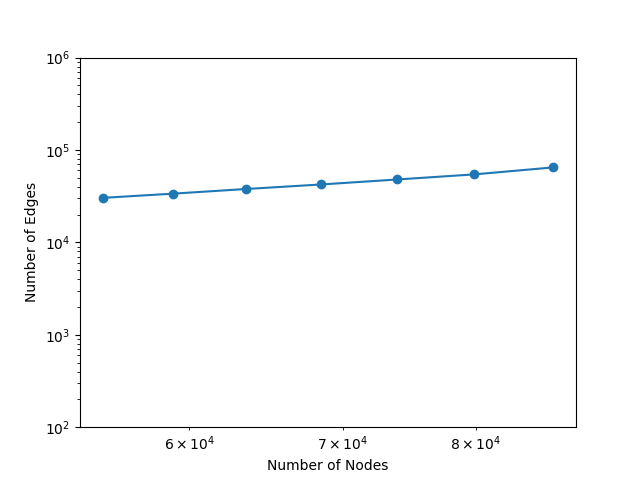
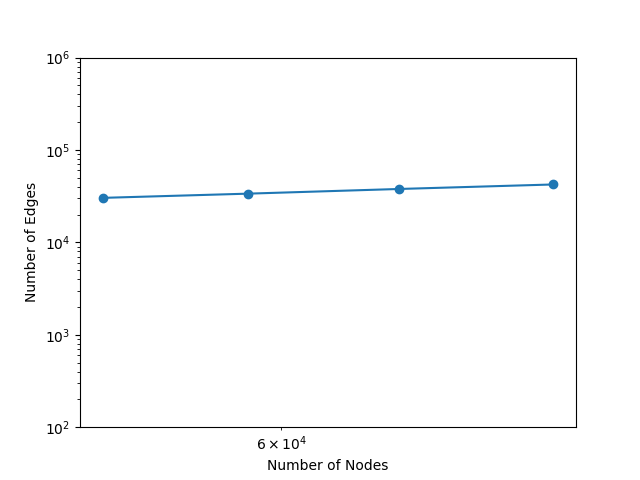
Trim some unused info

diff --git a/citation_dynamic_graph_analysis.py b/citation_dynamic_graph_analysis.py
@@ -1,7 +1,9 @@
 import sys
 sys.path.append('/home/home4/ychen/Code/python-lib') # add the path of networkx in Duke-CS cluster
-from matplotlib import pyplot as plt
 
+import matplotlib
+matplotlib.use('TkAgg')
+import matplotlib.pyplot as plt
 
 import random
 from networkx import *
@@ -17,17 +19,18 @@ def effective_diamater(path_length_seq):
     sorted_seq = sorted(path_length_seq)
     return sorted_seq[int(len(path_length_seq)*0.9)]
 
-#def graph_metrics(G):
-	# nodes, edges, avg deg, avg cc
-    #	median_deg = numpy.median(sorted(G.degree().values()))
-    #	avg_deg = numpy.average(sorted(G.degree().values()))
-    #	avg_cc = networkx.average_clustering(G)
-    #print G.number_of_nodes(), G.number_of_edges(), G.number_of_edges() * 2.0 / (G.number_of_nodes() * (G.number_of_nodes() - 1)), median_deg, "%.2f" % avg_deg, "%.2f" % avg_cc
-#	return
+def graph_metrics(G):
+	## nodes, edges, avg deg, avg cc
+    median_deg = numpy.median(sorted(G.degree().values()))
+    avg_deg = numpy.average(sorted(G.degree().values()))
+    avg_cc = networkx.average_clustering(G)
+    print G.number_of_nodes(), G.number_of_edges(), G.number_of_edges() * 2.0 / (G.number_of_nodes() * (G.number_of_nodes() - 1)), median_deg, "%.2f" % avg_deg, "%.2f" % avg_cc
+
 
 
 min_year = 1990
-max_year = 2015
+# max_year = 2015
+max_year = 1993
 
 
 f_dyn =open("processed_data/gs_collaboration_yearly_graph.txt", "r")
@@ -81,6 +84,8 @@ for current_yr in range(min_year, max_year+1):
 #            if (min_possible_year <= current_yr):
             if (min_possible_year + random.randint(0, delta_year+1) <= current_yr):
                 G_current.add_edge(int(line_info[1]), int(line_info[2]))
+
+
     print current_yr, ":",
     print G_current.number_of_nodes(), G_current.number_of_edges(),
     print G_current.number_of_edges() * 2.0 / (G_current.number_of_nodes()*(G_current.number_of_nodes()-1)), # density
@@ -178,6 +183,9 @@ for x in all_edges:
 
 graph_metrics(G_all)
 
+
+
+##Analysis of seperate year
 for current_yr in range(min_year, max_year+1):
 	print current_yr, ":",
 	G_tmp = Graph()

diff --git a/draw_hist.py b/draw_hist.py
@@ -1,13 +1,60 @@
+import matplotlib
+matplotlib.use('TkAgg')
+import matplotlib.pyplot as plt
+
 import numpy as np
 import statsmodels.api as sm
-import matplotlib.pyplot as plt
 import sys
+from matplotlib import ticker
+formatter = ticker.ScalarFormatter(useMathText=True)
+formatter.set_scientific(True) 
+formatter.set_powerlimits((-1,1)) 
+matplotlib.rcParams['mathtext.fontset'] = 'stix'
+matplotlib.rcParams['font.family'] = 'STIXGeneral'
+  
 
-def cdf_plot(data, name, number):
-    ecdf = sm.distributions.ECDF(data)
-    x = np.linspace(min(data), max(data), number)
-    y = ecdf(x)
+# def cdf_plot(data, name, number):
+#     ecdf = sm.distributions.ECDF(data)
+#     print(ecdf)
+#     x = np.linspace(min(data), max(data), number)
+#     y = ecdf(x)
 
-    #plt.step(x, y, label=name)
-    plt.plot(x, y, label=name)
+#     #plt.step(x, y, label=name)
+#     plt.plot(x, y, label=name)
+#     plt.savefig("test.png")
+
+def cdf_plot(data, color, name, xlabel, ylabel, number_of_bins):
+    data = sorted(data)
+    x = np.linspace(min(data), max(data), number_of_bins)
+    y = [0]
+    current_item_count = 0
+    current_index = 0
+    for item in data:
+        if current_index + 1 >= number_of_bins:
+            break
+        current_item_count += 1
+        if item >= x[current_index] and item < x[current_index+1]:
+            continue
+        else:
+            while current_index < number_of_bins and item > x[current_index]:
+                y.append(float(current_item_count)/len(data))
+                current_index += 1
+    print(float(current_item_count)/len(data))
+    print(x)
+    print(y)
+    
+    ax=plt.gca()
+    ax.xaxis.set_major_formatter(formatter) 
+    ax.set_xlabel(xlabel, fontsize=12)
+    ax.set_ylabel(ylabel, fontsize=12)
+    plt.plot(x[0:len(y)], y, color="black", linewidth=1.2)
+    plt.show()
+
+if __name__ == '__main__':
+    f = open("all_pagerank.txt", 'r')
+    v = map(lambda x: float(x.strip()), f)
+    v = sorted(v)
+    cdf_plot(v[0:390000], 'red', 'cc', 'PageRank', 'Percentage(%)', 20)    
+
+
 

diff --git a/citation_static_graph_analysis.py b/citation_static_graph_analysis.py
@@ -45,9 +45,6 @@ def subset_graph_metrics(G, pagerank_dict, node_list):
     print len(node_list), median_deg, '%.3f' % avg_deg, '%.3f' % avg_cc, numpy.average(pagerank_values)
     return
 
-min_year = 1990
-max_year = 2012
-
 f_nodes = open("processed_data/gs_graph_nodes.txt", "r")
 f_edges = open("processed_data/gs_collaboration_graph.txt", "r")
 
@@ -120,10 +117,6 @@ for x in all_country_nodes:
 
 pagerank_dict = pagerank(G_all, alpha=0.9)
 
-
-
-
-
 graph_metrics(G_all, pagerank_dict)
 
 #'''
@@ -171,11 +164,11 @@ print '->Avg. Total= %.2f' % numpy.average(female_total), 'Avg. H-idx= %.2f' % n
 
 print '== Academic Titles =='
 
-for current_country in range(1, 4):
-    print current_country, ":",	
+for current_title in range(1, 4):
+    print current_title, ":",	
     curr_node_list = []; current_total = []; current_hidx = []; current_gidx = [];
     for ii in range(0, len(node_country_id)):
-        if (node_country_id[ii] == current_country):
+        if (node_country_id[ii] == current_title):
             curr_node_list.append(ii)
             current_total.append(all_total[ii]);current_hidx.append(all_hidx[ii]); current_gidx.append(all_gidx[ii]);
                     

diff --git a/citation_evolution_analysis.py b/citation_evolution_analysis.py
@@ -25,6 +25,8 @@ t_20_seq = []; t_50_seq= []; t_80_seq = [];
 
 f_h_result = open("result_h_evolution.txt", "w")
 
+
+##Accumulate zero to twenty years
 for i in range(1, 20):
 	h_20_seq.append(percentile(sorted(h_data[i]), 20)); f_h_result.write(str(percentile(sorted(h_data[i]), 20))+" ")
 	h_50_seq.append(percentile(sorted(h_data[i]), 50)); f_h_result.write(str(percentile(sorted(h_data[i]), 50))+" ")

diff --git a/citation_subject_graph_analysis.py b/citation_subject_graph_analysis.py
@@ -51,8 +51,6 @@ def subset_graph_metrics(G, node_list, meta_info):
 		numpy.savetxt('result_bio_cc_cdf.txt', get_per_from_seq(sorted_cc), fmt = "%.2f")
 	return
 
-min_year = 1990
-max_year = 2012
 
 f_nodes = open("processed_data/gs_graph_nodes.txt", "r")
 f_edges = open("processed_data/gs_collaboration_graph.txt", "r")
